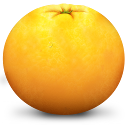
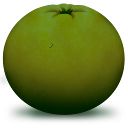
fix for on off image

diff --git a/queqiao/request_handler.js b/queqiao/request_handler.js
@@ -12,19 +12,19 @@
 chrome.webRequest.onBeforeSendHeaders.addListener(
   function(details) {
     if(QueqiaoUser.headerValue.length>1){
-        Logger.info("QueqiaoUser.headerValue=" + QueqiaoUser.headerValue);    
-        for (var i = 0; i < details.requestHeaders.length; ++i) {
+        Logger.info("from net QueqiaoUser.headerValue=" + QueqiaoUser.headerValue);    
+        /*for (var i = 0; i < details.requestHeaders.length; ++i) {
               if (details.requestHeaders[i].name === 'User-Agent') {
                 details.requestHeaders.splice(i, 1);
                 break;
               }
-        }
+        }*/
         var headers = details.requestHeaders;  
         headers.push({
           name: 'Proxy-Authorization',
-          value: QueqiaoUser.headerValue.length
+          value: QueqiaoUser.headerValue
         }); 
-        return {requestHeaders: headers};                    
+        return {requestHeaders: headers};
     }else{
         Logger.info("QueqiaoUser.headerValue is null");
     }
@@ -53,27 +53,15 @@ chrome.webRequest.onBeforeRequest.addListener (
             Logger.warning("adUrl="+url);
             return {redirectUrl:"http://proxy.xiaochengzi.vip/ads?click="+url}
         }
-        /*Logger.debug("isAdUrl= " + isAd + 'url='+url);
-        if(isAd){
-            Logger.log("adUrl="+url);
-        }
-        if(url.indexOf("doubleclick.net")!=-1 ||
-            url.indexOf("pos.baidu.com")!=-1 ||
-            url.indexOf("a1.alicdn.com")!=-1||
-            url.indexOf("l.qq.com")!=-1){
-            Logger.log("doubleclick.net find for url="+url);
-            Logger.log("isAd="+isAd);
-            if(url.indexOf("proxy.xiaochengzi")<=0){
-                return {redirectUrl:"http://proxy.xiaochengzi.vip/ads?click="+url}
-            }
-            
-        }*/
-
 
 
         //TODO checkthe url is in array, then show diffrent icon
+        if(QueqiaoUser.status == 1){
+            chrome.browserAction.setIcon(iconOn);
+        }else{
+            chrome.browserAction.setIcon(iconOff);
+        }
 
-        chrome.browserAction.setIcon(iconOn);
         return {cancel: false};;
     },
     {urls:["<all_urls>"]}//监听所有的url,你也可以通过*来匹配。
@@ -88,9 +76,9 @@ chrome.webRequest.onCompleted.addListener (
 
         if(httpStatus>=399){
             Logger.log("httpStatus="+httpStatus + " for url=" + url, Logger.Types.warning);
-            LocalConfig.setIcon("off");
+            //LocalConfig.setIcon("off");
         }else{
-            LocalConfig.setIcon("on");
+            //LocalConfig.setIcon("on");
         }
 
     },
@@ -115,7 +103,7 @@ chrome.webRequest.onErrorOccurred.addListener (
             Logger.info("url=" + url + " is error, errorInfo=" + error);
         }
 
-        LocalConfig.setIcon("off");
+        //LocalConfig.setIcon("off");
 
     },
     {urls: ["<all_urls>"]}

diff --git a/queqiao/options.html b/queqiao/options.html
@@ -35,16 +35,20 @@
                             <i class="icon-user"></i>请登录<i class="caret"></i>
                             </a>
                             <ul class="dropdown-menu">
-                                 <li>
+                                <li>
                                     <a href="options.html" id="refreshBtn">刷新</a>
                                 </li>
-                                <li class="divider"></li>                            
+                                        
                                 <li>
                                     <a href="http://proxy.xiaochengzi.vip/user/my_info" target="_blank" tabindex="-1">个人信息</a>
                                 </li>
-                                <li class="divider"></li>
+                                
                                 <li>
                                     <a href="http://proxy.xiaochengzi.vip/user/order_create" target="_blank" tabindex="-1">续费</a>
+                                </li>
+                                 <li class="divider"></li>   
+                                 <li>
+                                    <a href="http://proxy.xiaochengzi.vip/user/login" target="_blank" tabindex="-1">重新登录</a>
                                 </li>
                             </ul>
                         </li>

diff --git a/queqiao/add_back.html b/queqiao/add_back.html
@@ -37,14 +37,18 @@
                                  <li>
                                     <a href="options.html" id="refreshBtn">刷新</a>
                                 </li>
-                                <li class="divider"></li>                            
+                                                  
                                 <li>
                                     <a href="http://proxy.xiaochengzi.vip/user/my_info" target="_blank" tabindex="-1">个人信息</a>
                                 </li>
-                                <li class="divider"></li>
+                                
                                 <li>
                                     <a href="http://proxy.xiaochengzi.vip/user/order_create" target="_blank" tabindex="-1">续费</a>
                                 </li>
+                                <li class="divider"></li>          
+                                 <li>
+                                    <a href="http://proxy.xiaochengzi.vip/user/login" target="_blank" tabindex="-1">重新登录</a>
+                                </li>                                
                             </ul>
                         </li>
                     </ul>

diff --git a/queqiao/addomain.html b/queqiao/addomain.html
@@ -38,14 +38,18 @@
                                  <li>
                                     <a href="options.html" id="refreshBtn">刷新</a>
                                 </li>
-                                <li class="divider"></li>                            
+                                             
                                 <li>
                                     <a href="http://proxy.xiaochengzi.vip/user/my_info" target="_blank" tabindex="-1">个人信息</a>
                                 </li>
-                                <li class="divider"></li>
+                                
                                 <li>
                                     <a href="http://proxy.xiaochengzi.vip/user/order_create" target="_blank" tabindex="-1">续费</a>
                                 </li>
+                                <li class="divider"></li>               
+                                 <li>
+                                    <a href="http://proxy.xiaochengzi.vip/user/login" target="_blank" tabindex="-1">重新登录</a>
+                                </li>                                
                             </ul>
                         </li>
                     </ul>

diff --git a/queqiao/new_ad.html b/queqiao/new_ad.html
@@ -38,14 +38,18 @@
                                  <li>
                                     <a href="options.html" id="refreshBtn">刷新</a>
                                 </li>
-                                <li class="divider"></li>                            
+                         
                                 <li>
                                     <a href="http://proxy.xiaochengzi.vip/user/my_info" target="_blank" tabindex="-1">个人信息</a>
                                 </li>
-                                <li class="divider"></li>
+                                
                                 <li>
                                     <a href="http://proxy.xiaochengzi.vip/user/order_create" target="_blank" tabindex="-1">续费</a>
                                 </li>
+                                 <li class="divider"></li>   
+                                 <li>
+                                    <a href="http://proxy.xiaochengzi.vip/user/login" target="_blank" tabindex="-1">重新登录</a>
+                                </li>                                
                             </ul>
                         </li>
                     </ul>

diff --git a/queqiao/QueqiaoUser.js b/queqiao/QueqiaoUser.js
@@ -56,12 +56,21 @@ QueqiaoUser.setCookie = function(userCookie){
 		  		Logger.info('getUerName code error='+JSON.stringify(retJson));	
 		  	}else{
 		  		var data = retJson['data'];
-		  		QueqiaoUser.userName = data.userName;
-		  		QueqiaoUser.proxyUrl = data.url;
-		  		QueqiaoUser.status = 1;
+		  		QueqiaoUser.userName = data.userName;		  				  		
 		  		QueqiaoUser.headerValue = data.headerValue;
-		  		LocalConfig.proxyUrl = data.url;		  	
-		  		Logger.info('getUerName from net='+data.userName + ',proxyUrl from net='+data.url);	
+		  		LocalConfig.proxyUrl = data.url;	
+
+		  		if(data.isExpired == '0'){
+		  			QueqiaoUser.status = 1;
+		  			QueqiaoUser.proxyUrl = data.url;
+					Logger.info('getUerName from net='+data.userName + ',proxyUrl from net='+data.url);	
+		  		}else{
+		  			QueqiaoUser.status = 2;
+		  			QueqiaoUser.proxyUrl = ' DIRECT ';
+		  			Logger.info('getUerName from net='+data.userName + ',expired proxyUrl from net='+data.url);	
+		  		}
+
+		  		
 
 				Settings.setValue('pacScriptData', LocalConfig.pacScript());
 				//function (proxyMode, proxyString, proxyExceptions, proxyConfigUrl)

diff --git a/queqiao/LocalConfig.js b/queqiao/LocalConfig.js
@@ -36,6 +36,7 @@ LocalConfig.init = function () {
         this.addUrl(".ggpht.com");
         this.addUrl(".wsj.com");
         this.addUrl(".wsj.net");
+        this.addUrl(".epochtimes.com");
         this.addUrl(".googlevideo.com");
         Logger.info("init first"+ this.data.length);
     }

diff --git a/queqiao/background_main.js b/queqiao/background_main.js
@@ -72,7 +72,7 @@ function init() {
 		Logger.log("Init ProxyPlugin complete ", Logger.Types.info);
 	};
 
-	LocalConfig.setIcon('off');
+	
 }
 
 

diff --git a/cc-rawind-queqiao/src/main/java/com/rawind/queqiao/web/controllers/plugin/ProxyController.java b/cc-rawind-queqiao/src/main/java/com/rawind/queqiao/web/controllers/plugin/ProxyController.java
@@ -65,16 +65,27 @@ public class ProxyController {
 				}			
 			}
 			
+			boolean isExpired = false;
 			String pwd = "";
+			String userName = "";
 			QueqiaoUserExtr userExtr =  queqiaoUserExtrService.getByUserId(user.getId());
 			if(userExtr == null){
 				logger.warn("can not find userExtr for userId=" + user.getId());
 			}else{
-				//if(userExtr.getExpiredTime())
+				userName = userExtr.getUserName();
+				pwd = userExtr.getPasswd();
+				
+				if(userExtr.checkStatusByExpiredTime() == QueqiaoUserExtr.STATUS_EXPIRED){
+					pwd = "";
+					isExpired = true;
+					logger.info("userName=" + user.getName() + ", isExpired="+isExpired);
+				}
+				
 			}
 			//"Proxy-Authorization"= "Basic Base64.encode(user:password)" 
 			//String headerKey = "Proxy-Authorization"; 
-			String headerValue = "Basic " + QqBase64.encodeStr(user.getName()+":"+pwd); 
+			//Proxy-Authorization:Basic bGlvbmRpbmFzOnBhc3N3b3Jk
+			String headerValue = "Basic " + QqBase64.encodeStr(userName+":"+pwd); 
 			//conn.setRequestProperty(headerKey, headerValue); 
 			
 			// proxy url="SOCKS5 127.0.0.1:1080";
@@ -83,6 +94,10 @@ public class ProxyController {
 			data.put("url", proxy);
 			data.put("userName", user.getName());
 			data.put("headerValue", headerValue);
+			data.put("isExpired", isExpired?"1":"0");
+			logger.info("userName=" + user.getName() + ", headerValue="+headerValue);
+			
+			
 			return AjaxOutput.success("data", data);
 			
 		}

diff --git a/cc-rawind-queqiao/src/main/java/com/rawind/queqiao/web/model/QueqiaoUserExtr.java b/cc-rawind-queqiao/src/main/java/com/rawind/queqiao/web/model/QueqiaoUserExtr.java
@@ -3,6 +3,8 @@ package com.rawind.queqiao.web.model;
 import java.io.Serializable;
 import java.util.Date;
 
+import com.chewen.tools.commons.util.CwDateTimeUtil;
+
 import net.paoding.rose.jade.annotation.DAO;
 
 
@@ -82,6 +84,18 @@ public class QueqiaoUserExtr implements Serializable{
 	}
 	
 	
+	public int checkStatusByExpiredTime(){
+		if(expiredTime == null){
+			return STATUS_EXPIRED;
+		}
+		
+		Date cur = CwDateTimeUtil.cleanMinutes(new Date());
+		if(expiredTime.compareTo(cur)<0){
+			return STATUS_EXPIRED;
+		}
+		return STATUS_NORMAL;
+		
+	}
 	
 	
 	

diff --git a/cc-rawind-queqiao/src/main/java/com/rawind/queqiao/web/service/impl/QueqiaoUserServiceImpl.java b/cc-rawind-queqiao/src/main/java/com/rawind/queqiao/web/service/impl/QueqiaoUserServiceImpl.java
@@ -65,7 +65,7 @@ public class QueqiaoUserServiceImpl implements QueqiaoUserService {
 			if(userExtr == null){
 				userExtr = new QueqiaoUserExtr();
 				Date expiredTime = CwDateTimeUtil.cleanMinutes(new Date());
-				expiredTime = CwDateTimeUtil.lastHourAndMinutes(expiredTime);
+				expiredTime = CwDateTimeUtil.cleanHourAndMinutes(expiredTime);
 				userExtr.setExpiredTime(expiredTime);
 				userExtr.setPasswd("123456a");
 				userExtr.setUserId(userId);
